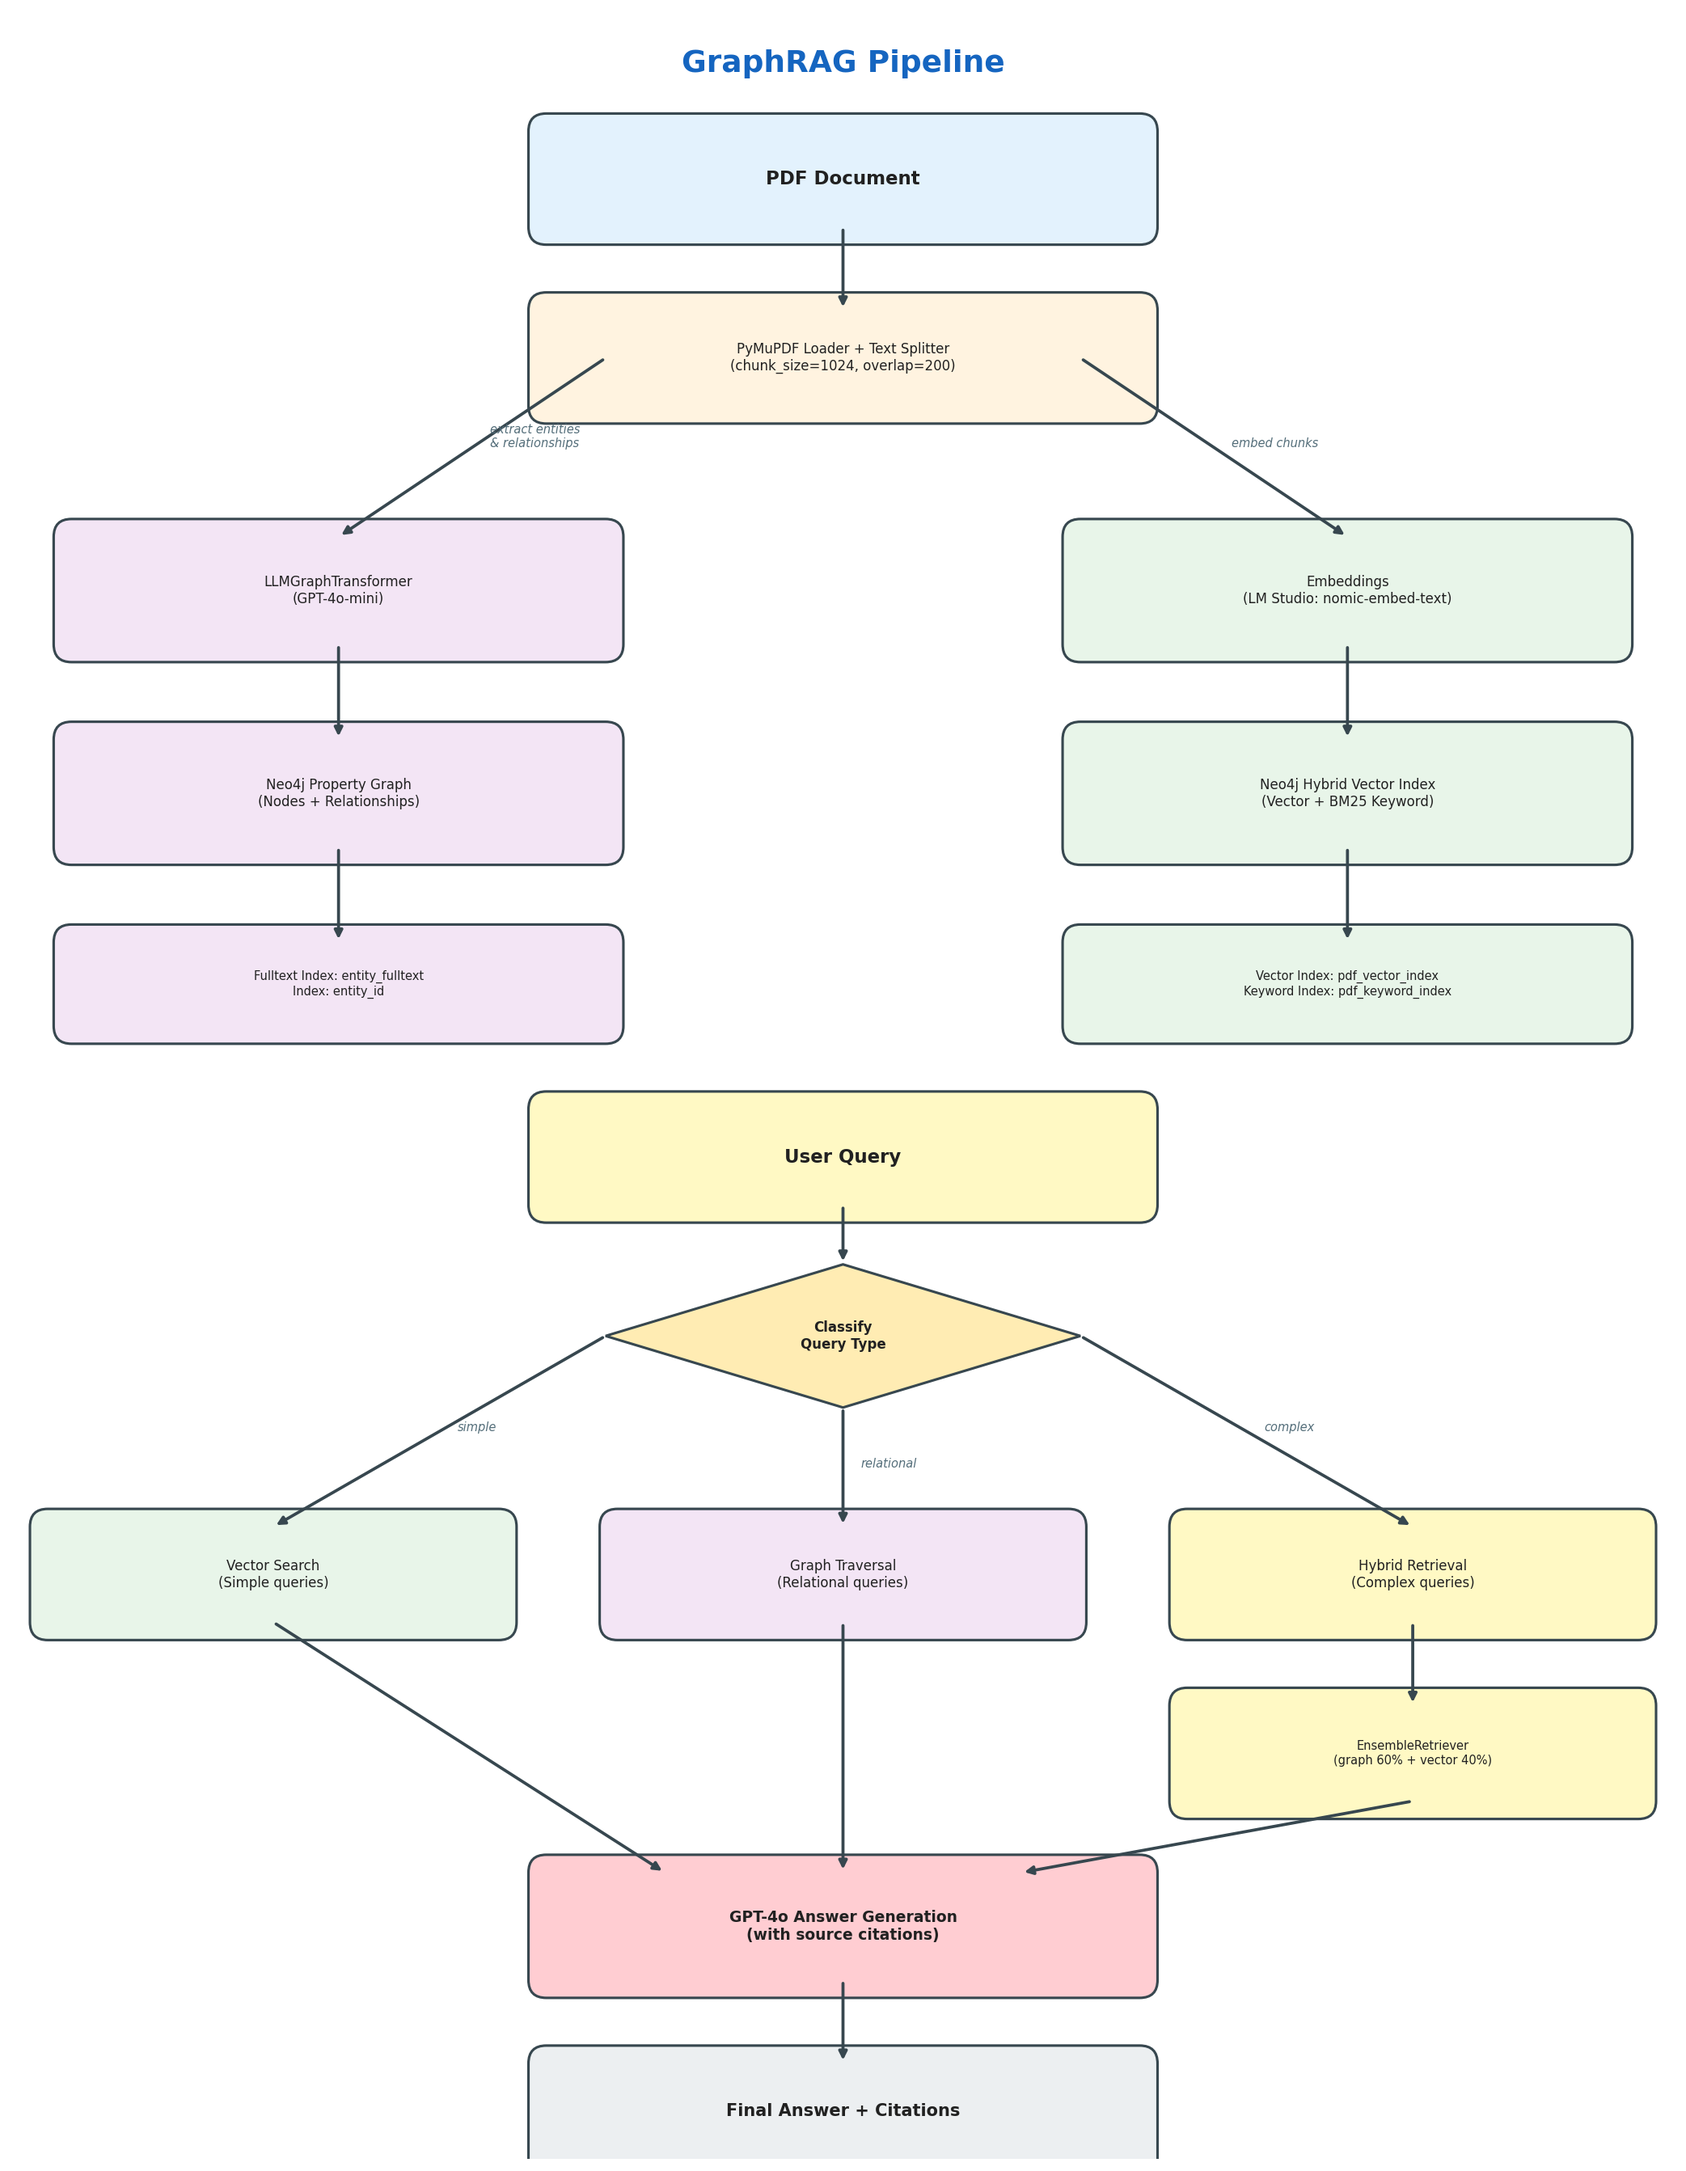
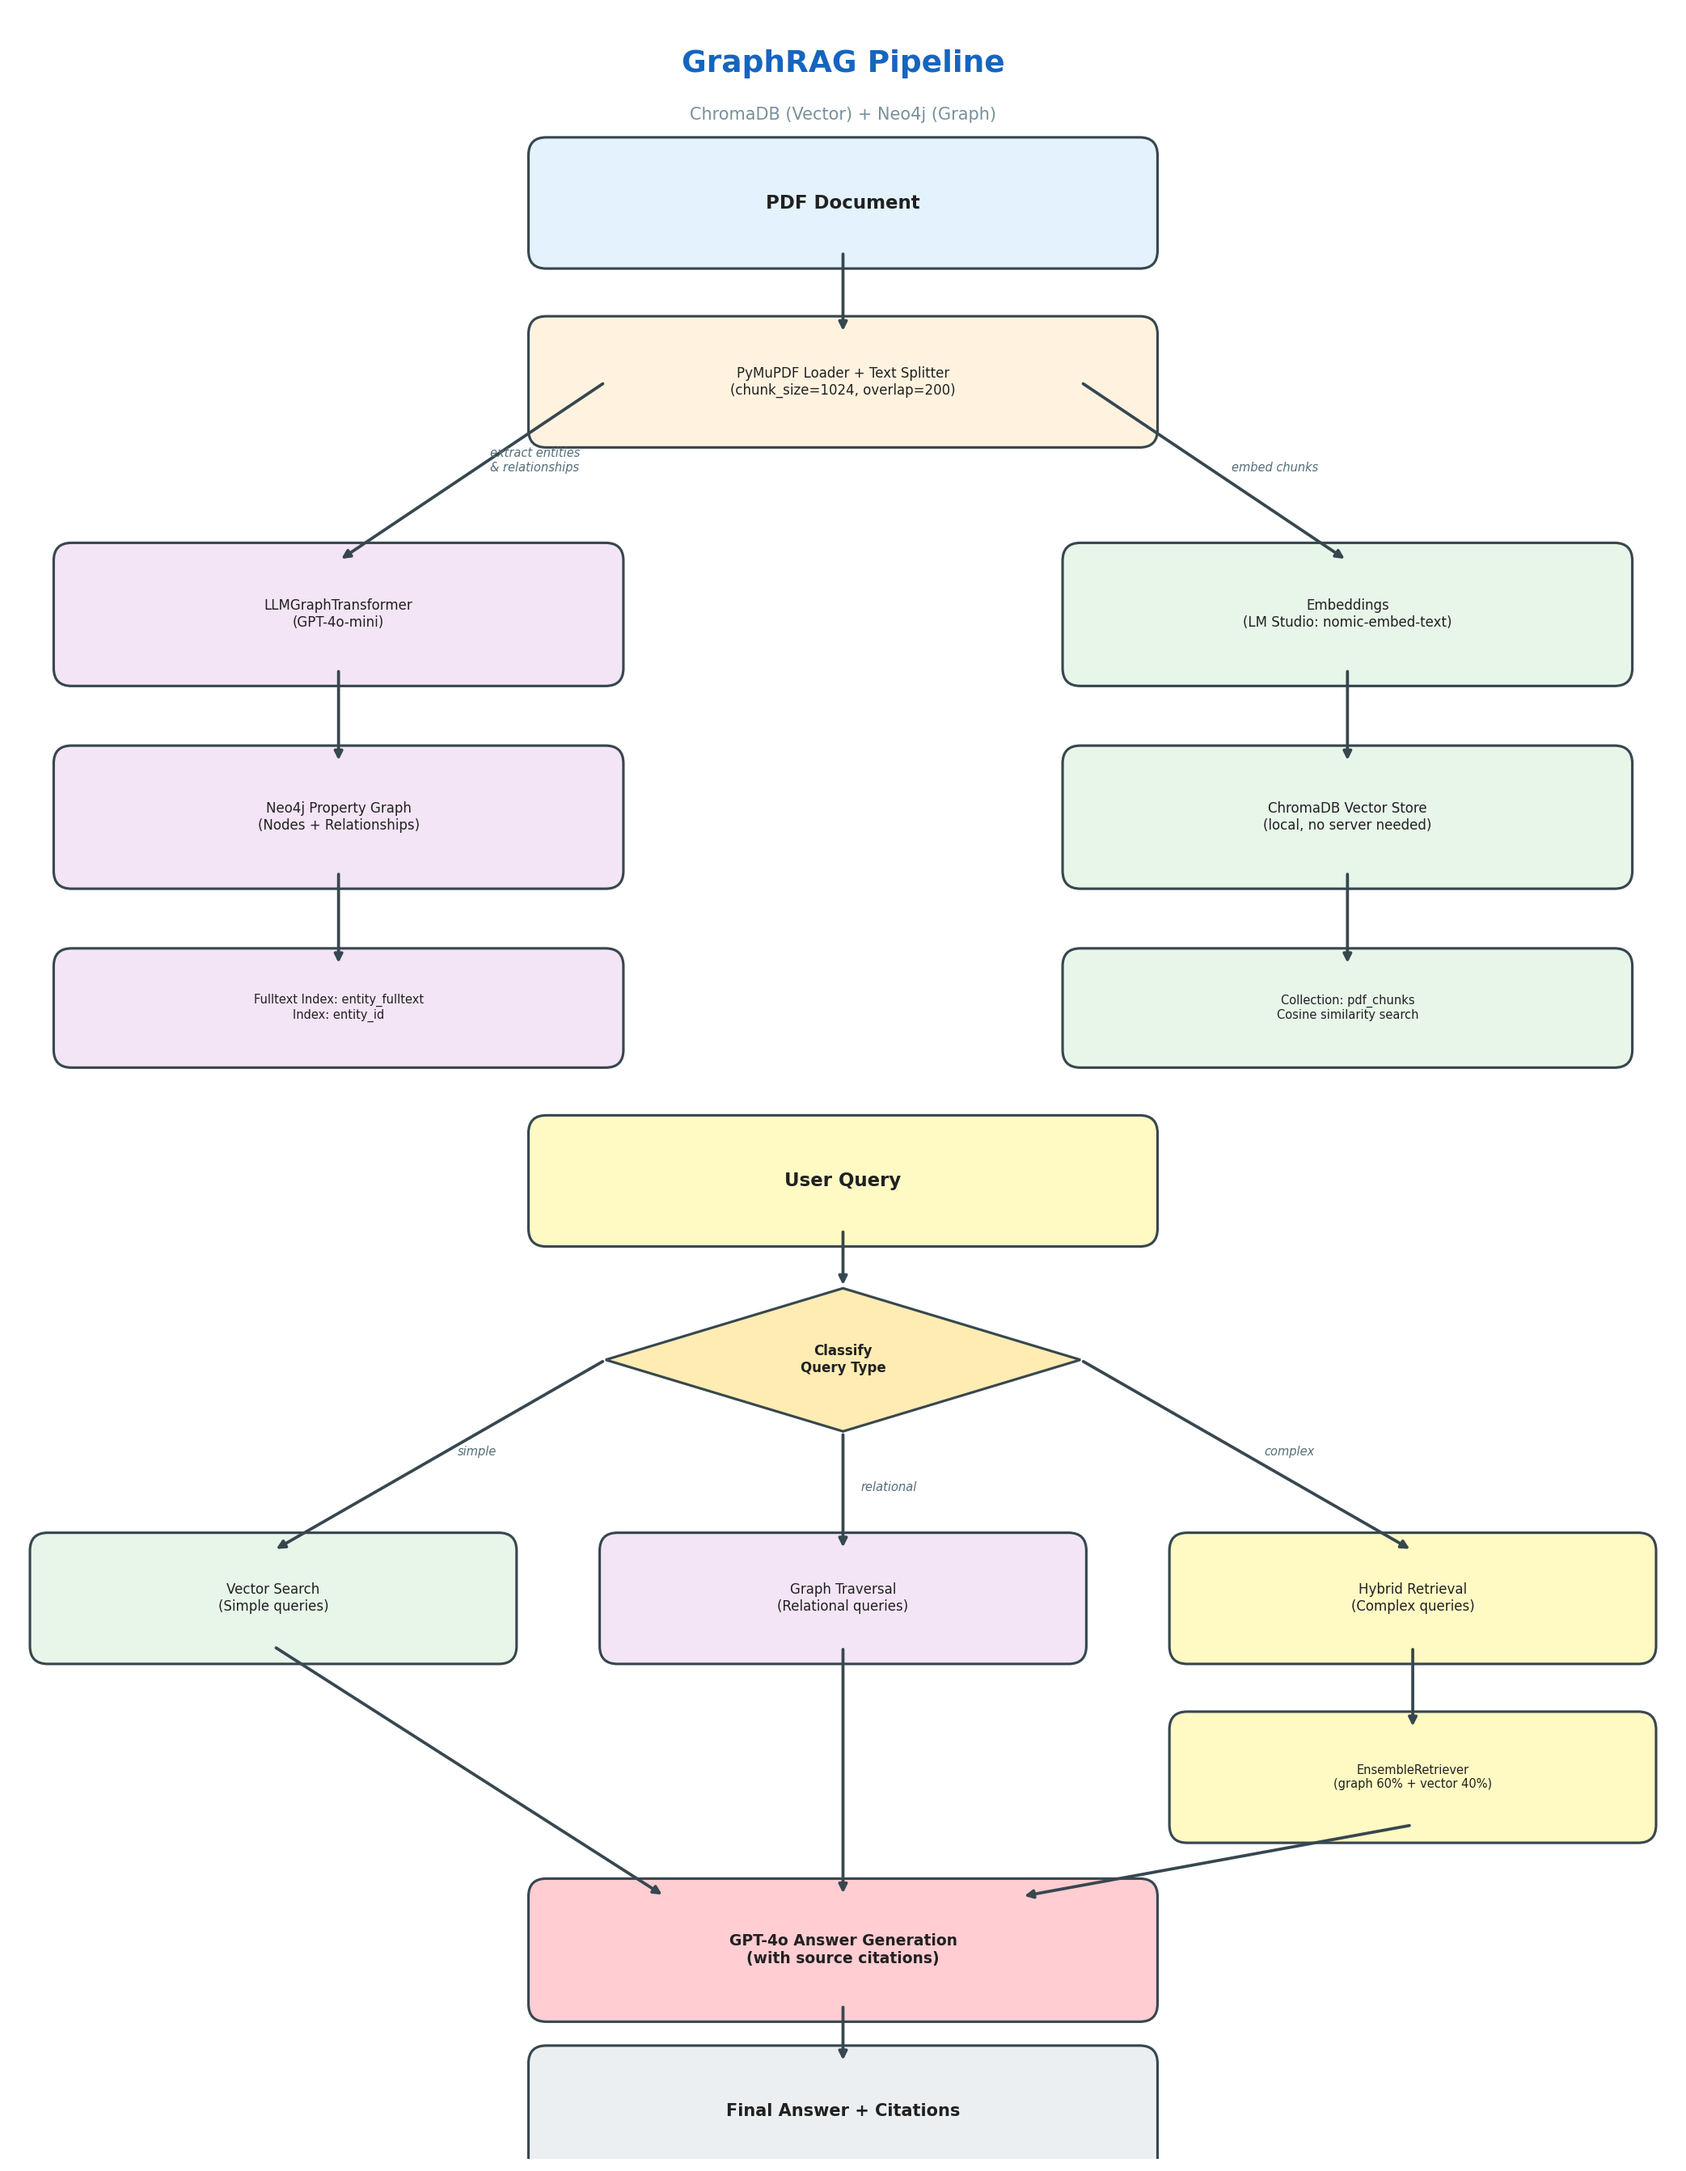
docs: update flowchart - ChromaDB for vector, Neo4j for graph

diff --git a/generate_flowchart.py b/generate_flowchart.py
@@ -1,10 +1,9 @@
-"""Generate a PNG flowchart for the GraphRAG pipeline."""
+"""Generate a PNG flowchart for the GraphRAG pipeline (ChromaDB + Neo4j)."""
 
 import matplotlib
 matplotlib.use("Agg")
 import matplotlib.pyplot as plt
-import matplotlib.patches as mpatches
-from matplotlib.patches import FancyBboxPatch, FancyArrowPatch
+from matplotlib.patches import FancyBboxPatch
 
 fig, ax = plt.subplots(1, 1, figsize=(14, 18))
 ax.set_xlim(0, 14)
@@ -31,7 +30,7 @@ def box(x, y, w, h, text, color, fontsize=9, bold=False):
     ax.add_patch(rect)
     weight = "bold" if bold else "normal"
     ax.text(x + w / 2, y + h / 2, text, ha="center", va="center",
-            fontsize=fontsize, fontweight=weight, color=C_TEXT, wrap=True)
+            fontsize=fontsize, fontweight=weight, color=C_TEXT)
 
 
 def arrow(x1, y1, x2, y2, label=""):
@@ -50,73 +49,69 @@ def diamond(x, y, w, h, text, color):
             fontsize=8, color=C_TEXT, fontweight="bold")
 
 
-# ── Title ──
+# Title
 ax.text(7, 17.5, "GraphRAG Pipeline", ha="center", fontsize=18, fontweight="bold", color=C_TITLE)
+ax.text(7, 17.1, "ChromaDB (Vector) + Neo4j (Graph)", ha="center", fontsize=10, color="#78909C")
 
-# ── Step 1: PDF Input ──
-box(4.5, 16.2, 5, 0.8, "PDF Document", C_PDF, fontsize=11, bold=True)
+# Step 1: PDF
+box(4.5, 16.0, 5, 0.8, "PDF Document", C_PDF, fontsize=11, bold=True)
 
-# ── Step 2: Load & Split ──
-box(4.5, 14.7, 5, 0.8, "PyMuPDF Loader + Text Splitter\n(chunk_size=1024, overlap=200)", C_SPLIT, fontsize=8)
-arrow(7, 16.2, 7, 15.5)
+# Step 2: Load & Split
+box(4.5, 14.5, 5, 0.8, "PyMuPDF Loader + Text Splitter\n(chunk_size=1024, overlap=200)", C_SPLIT, fontsize=8)
+arrow(7, 16.0, 7, 15.3)
 
-# ── Step 3: Two branches ──
-# Left branch: KG Extraction
-box(0.5, 12.7, 4.5, 0.9, "LLMGraphTransformer\n(GPT-4o-mini)", C_KG, fontsize=8)
-arrow(5, 15.1, 2.75, 13.6, "extract entities\n& relationships")
+# Step 3: Two branches
+box(0.5, 12.5, 4.5, 0.9, "LLMGraphTransformer\n(GPT-4o-mini)", C_KG, fontsize=8)
+arrow(5, 14.9, 2.75, 13.4, "extract entities\n& relationships")
 
-# Right branch: Embeddings
-box(9, 12.7, 4.5, 0.9, "Embeddings\n(LM Studio: nomic-embed-text)", C_VEC, fontsize=8)
-arrow(9, 15.1, 11.25, 13.6, "embed chunks")
+box(9, 12.5, 4.5, 0.9, "Embeddings\n(LM Studio: nomic-embed-text)", C_VEC, fontsize=8)
+arrow(9, 14.9, 11.25, 13.4, "embed chunks")
 
-# ── Step 4: Storage ──
-box(0.5, 11.0, 4.5, 0.9, "Neo4j Property Graph\n(Nodes + Relationships)", C_KG, fontsize=8)
-arrow(2.75, 12.7, 2.75, 11.9)
+# Step 4: Storage
+box(0.5, 10.8, 4.5, 0.9, "Neo4j Property Graph\n(Nodes + Relationships)", C_KG, fontsize=8)
+arrow(2.75, 12.5, 2.75, 11.7)
 
-box(9, 11.0, 4.5, 0.9, "Neo4j Hybrid Vector Index\n(Vector + BM25 Keyword)", C_VEC, fontsize=8)
-arrow(11.25, 12.7, 11.25, 11.9)
+box(9, 10.8, 4.5, 0.9, "ChromaDB Vector Store\n(local, no server needed)", C_VEC, fontsize=8)
+arrow(11.25, 12.5, 11.25, 11.7)
 
-# ── Step 5: Indexes ──
-box(0.5, 9.5, 4.5, 0.7, "Fulltext Index: entity_fulltext\nIndex: entity_id", C_KG, fontsize=7)
-arrow(2.75, 11.0, 2.75, 10.2)
+# Step 5: Indexes
+box(0.5, 9.3, 4.5, 0.7, "Fulltext Index: entity_fulltext\nIndex: entity_id", C_KG, fontsize=7)
+arrow(2.75, 10.8, 2.75, 10.0)
 
-box(9, 9.5, 4.5, 0.7, "Vector Index: pdf_vector_index\nKeyword Index: pdf_keyword_index", C_VEC, fontsize=7)
-arrow(11.25, 11.0, 11.25, 10.2)
+box(9, 9.3, 4.5, 0.7, "Collection: pdf_chunks\nCosine similarity search", C_VEC, fontsize=7)
+arrow(11.25, 10.8, 11.25, 10.0)
 
-# ── Query Input ──
-box(4.5, 8.0, 5, 0.8, "User Query", C_RET, fontsize=11, bold=True)
+# Query Input
+box(4.5, 7.8, 5, 0.8, "User Query", C_RET, fontsize=11, bold=True)
 
-# ── Classifier ──
-diamond(5, 6.3, 4, 1.2, "Classify\nQuery Type", C_ROUTE)
-arrow(7, 8.0, 7, 7.5)
+# Classifier
+diamond(5, 6.1, 4, 1.2, "Classify\nQuery Type", C_ROUTE)
+arrow(7, 7.8, 7, 7.3)
 
-# ── Three routes ──
-# Simple -> Vector
-box(0.3, 4.5, 3.8, 0.8, "Vector Search\n(Simple queries)", C_VEC, fontsize=8)
-arrow(5, 6.9, 2.2, 5.3, "simple")
+# Three routes
+box(0.3, 4.3, 3.8, 0.8, "Vector Search\n(Simple queries)", C_VEC, fontsize=8)
+arrow(5, 6.7, 2.2, 5.1, "simple")
 
-# Relational -> Graph
-box(5.1, 4.5, 3.8, 0.8, "Graph Traversal\n(Relational queries)", C_KG, fontsize=8)
-arrow(7, 6.3, 7, 5.3, "relational")
+box(5.1, 4.3, 3.8, 0.8, "Graph Traversal\n(Relational queries)", C_KG, fontsize=8)
+arrow(7, 6.1, 7, 5.1, "relational")
 
-# Complex -> Hybrid
-box(9.9, 4.5, 3.8, 0.8, "Hybrid Retrieval\n(Complex queries)", C_RET, fontsize=8)
-arrow(9, 6.9, 11.8, 5.3, "complex")
+box(9.9, 4.3, 3.8, 0.8, "Hybrid Retrieval\n(Complex queries)", C_RET, fontsize=8)
+arrow(9, 6.7, 11.8, 5.1, "complex")
 
-# ── Ensemble Retriever (from hybrid) ──
-box(9.9, 3.0, 3.8, 0.8, "EnsembleRetriever\n(graph 60% + vector 40%)", C_RET, fontsize=7)
-arrow(11.8, 4.5, 11.8, 3.8)
+# Ensemble Retriever
+box(9.9, 2.8, 3.8, 0.8, "EnsembleRetriever\n(graph 60% + vector 40%)", C_RET, fontsize=7)
+arrow(11.8, 4.3, 11.8, 3.6)
 
-# ── Merge arrows to generate ──
-box(4.5, 1.5, 5, 0.9, "GPT-4o Answer Generation\n(with source citations)", C_ANS, fontsize=9, bold=True)
+# Generate
+box(4.5, 1.3, 5, 0.9, "GPT-4o Answer Generation\n(with source citations)", C_ANS, fontsize=9, bold=True)
 
-arrow(2.2, 4.5, 5.5, 2.4)
-arrow(7, 4.5, 7, 2.4)
-arrow(11.8, 3.0, 8.5, 2.4)
+arrow(2.2, 4.3, 5.5, 2.2)
+arrow(7, 4.3, 7, 2.2)
+arrow(11.8, 2.8, 8.5, 2.2)
 
-# ── Output ──
+# Output
 box(4.5, 0.0, 5, 0.8, "Final Answer + Citations", "#ECEFF1", fontsize=10, bold=True)
-arrow(7, 1.5, 7, 0.8)
+arrow(7, 1.3, 7, 0.8)
 
 plt.tight_layout()
 plt.savefig("/Users/adithya/SIH Project/graphrag_flowchart.png", dpi=150, bbox_inches="tight",
